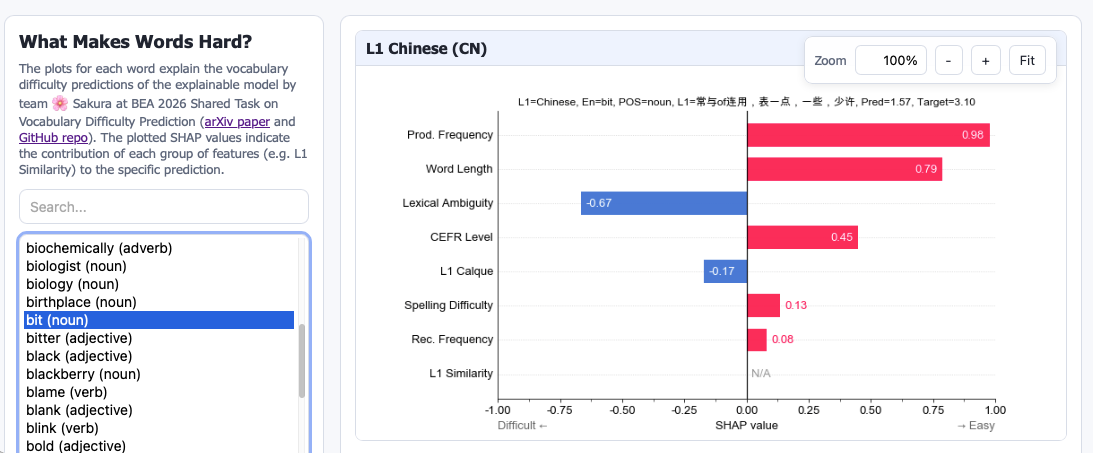
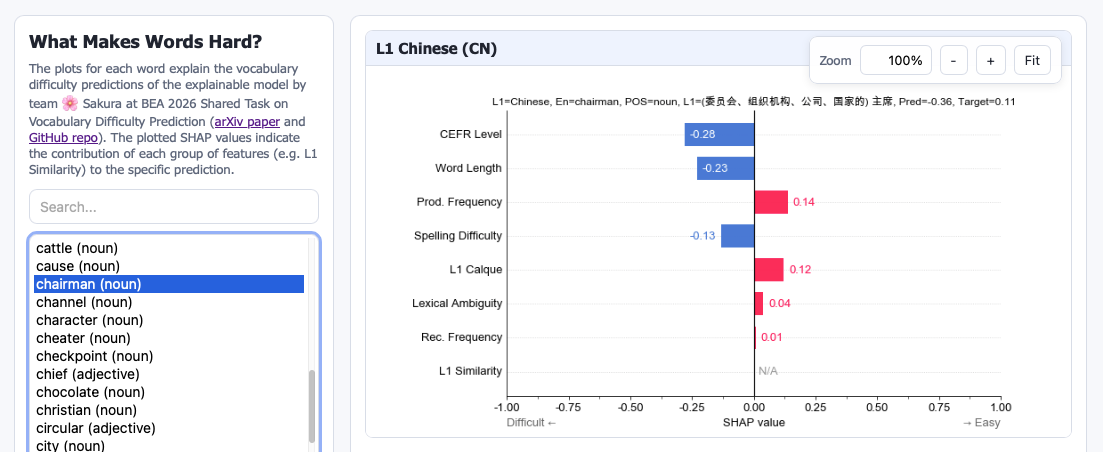
Update screenshot once more

diff --git a/README.md b/README.md
@@ -4,7 +4,7 @@ This repository contains **source code** of submissions of the Sakura team to th
 
 👀 [Explore SHAP-based explanations](https://ynklab.github.io/vocabulary-difficulty/) from our `explainable` system.
 
-<p align="center"><a href="https://ynklab.github.io/vocabulary-difficulty/"><img alt="Browse SHAP-based explanations of vocabulary difficulty predictions" src="./docs/screenshot.png" width="728" height="298" /></a></p>
+<p align="center"><a href="https://ynklab.github.io/vocabulary-difficulty/"><img alt="Browse SHAP-based explanations of vocabulary difficulty predictions" src="./docs/screenshot.png" width="735" height="301" /></a></p>
 
 📖 [Read our paper on arXiv](https://arxiv.org/abs/2605.14257).
 
